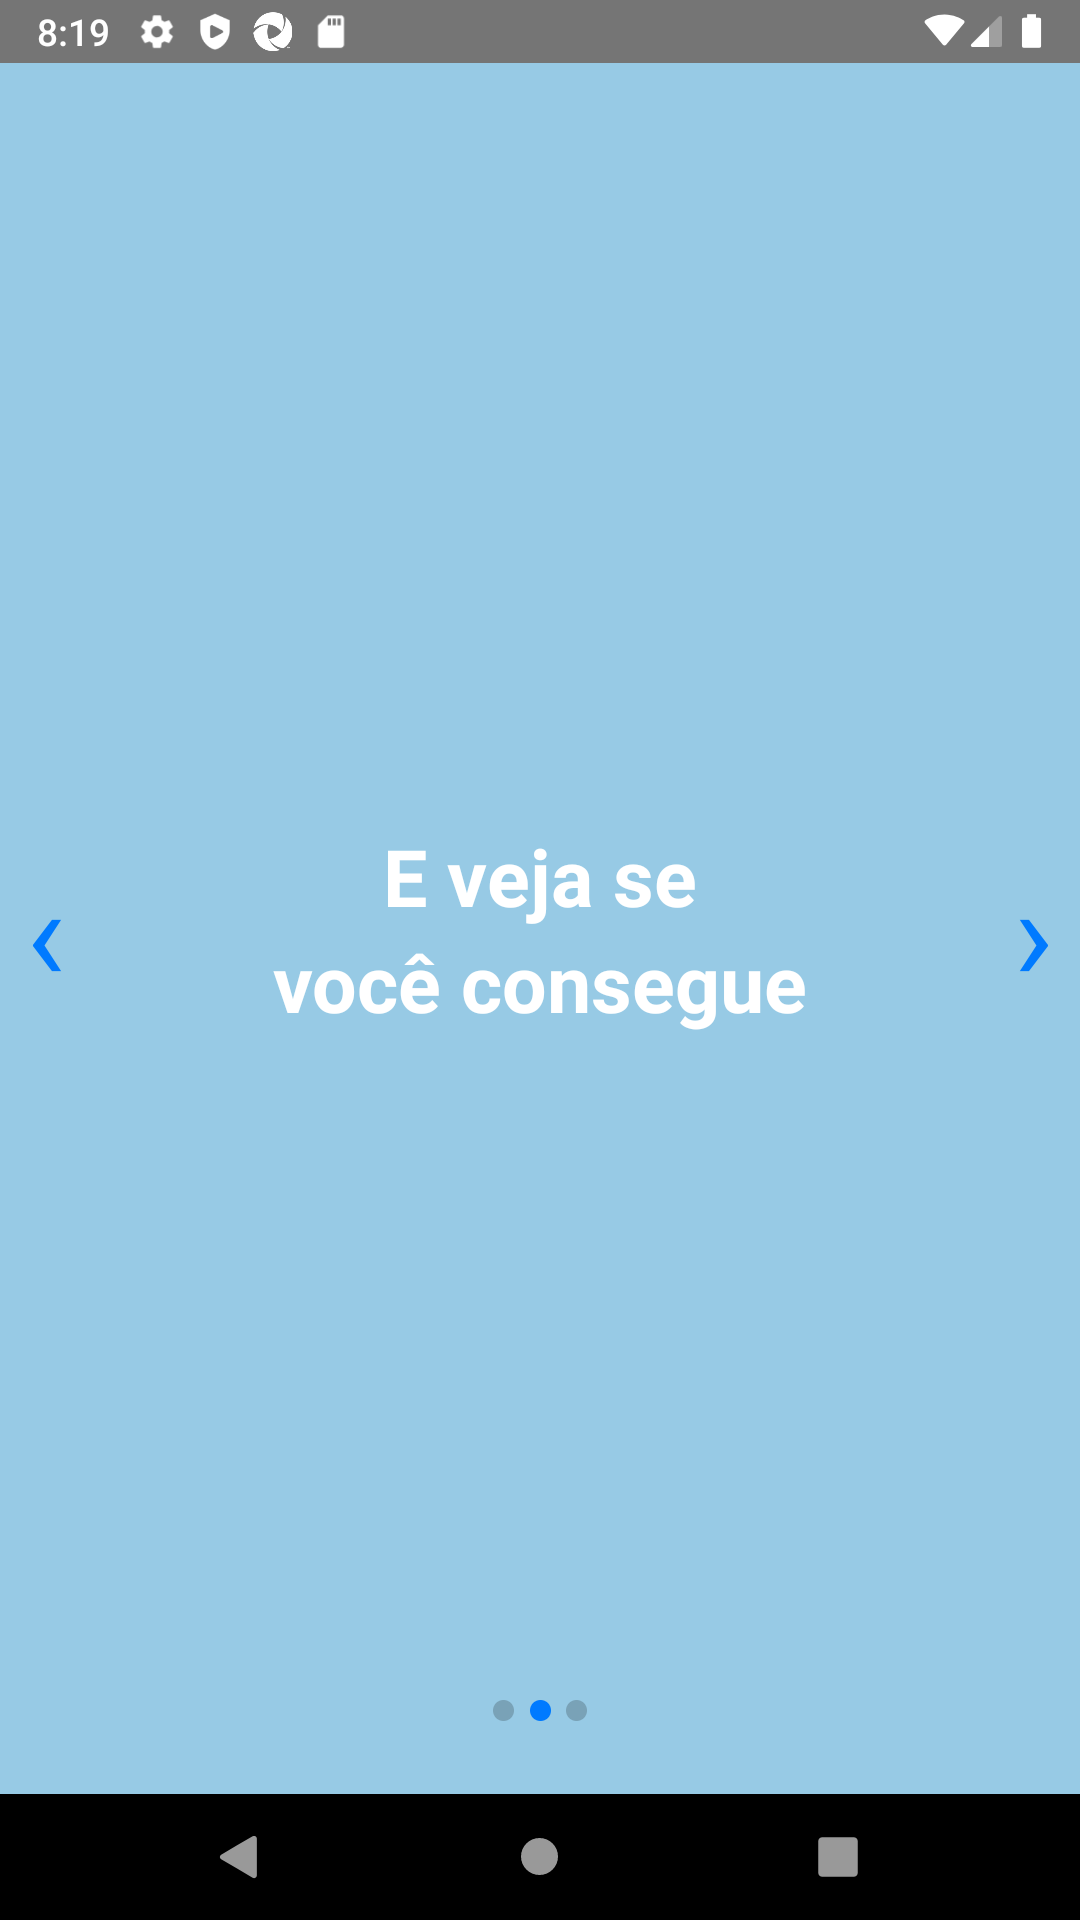
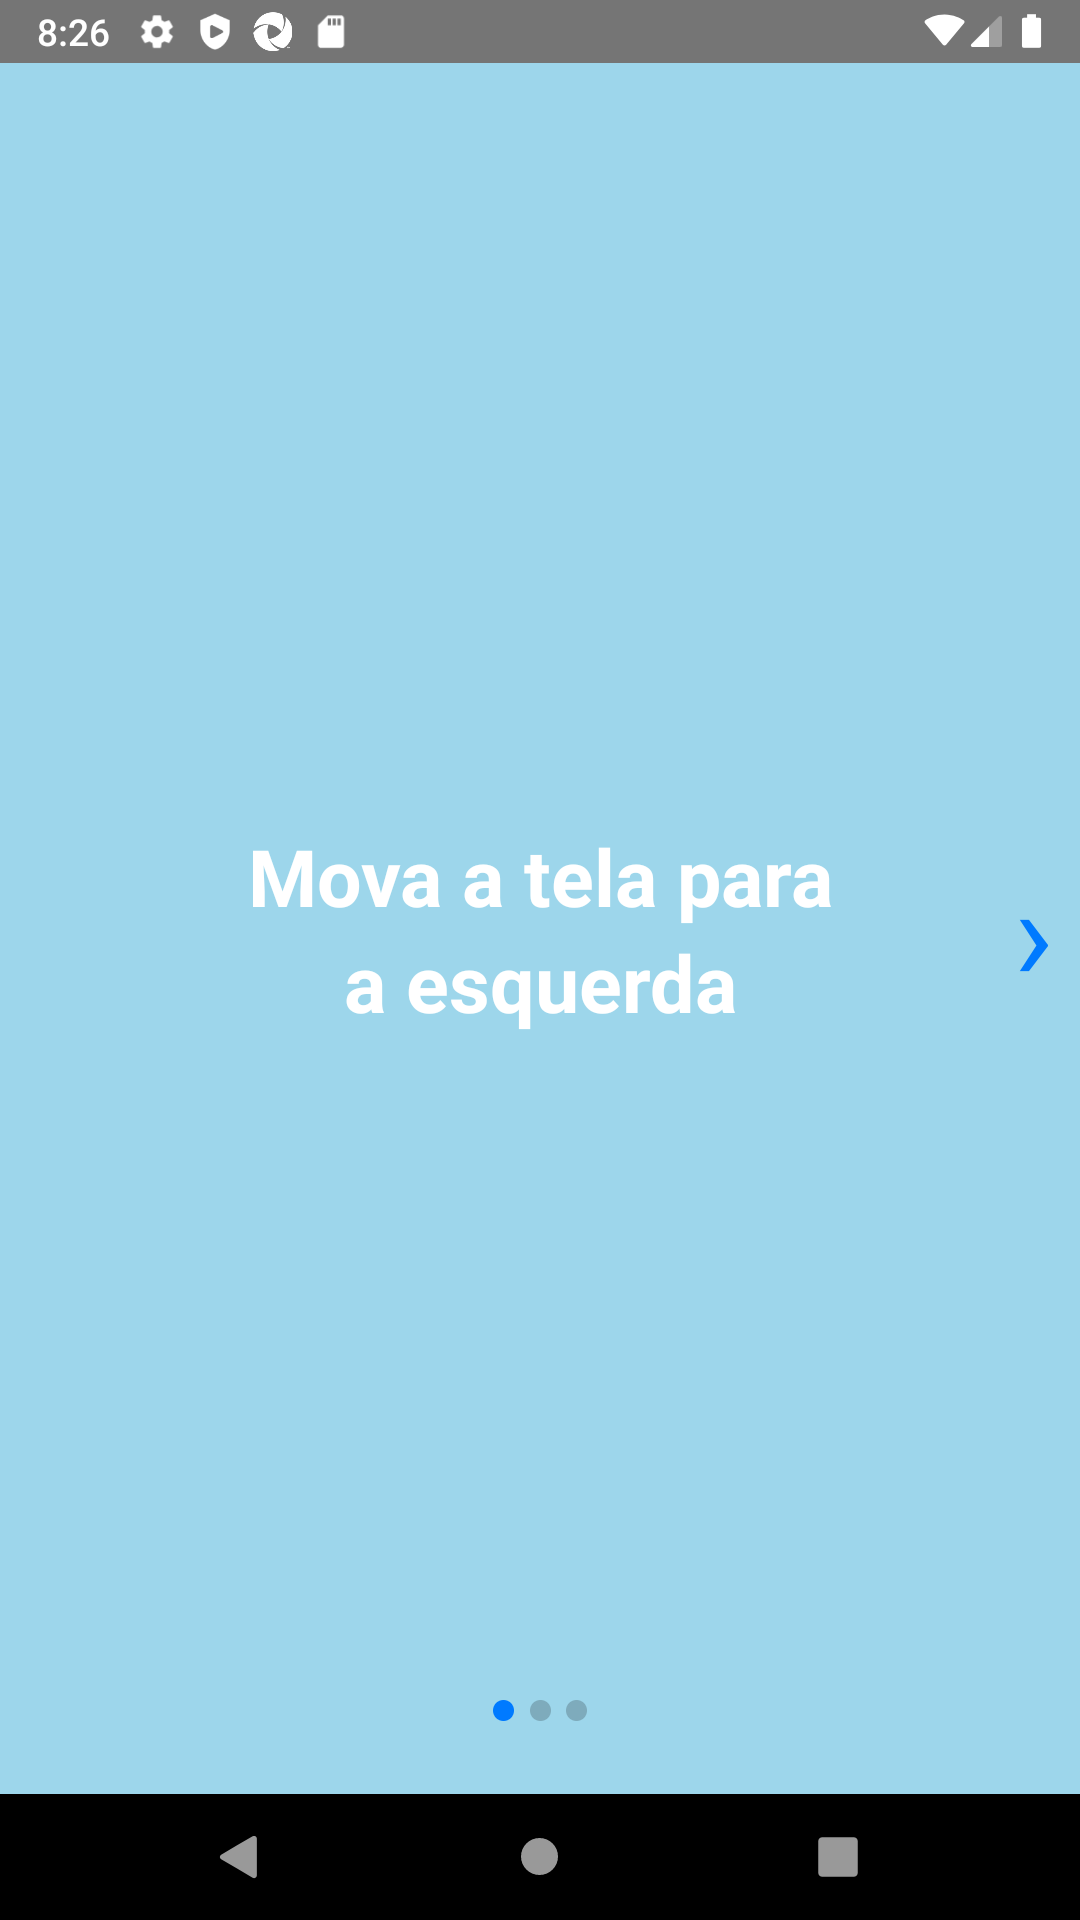
adicionando teste swipe

diff --git a/src/test/java/br/com/cursoudemy/appium/test/SwipeTest.java b/src/test/java/br/com/cursoudemy/appium/test/SwipeTest.java
@@ -26,5 +26,10 @@ public class SwipeTest extends BaseTest {
     public void chegaaoFimEVolta() {
         this.swipePage.swipeDireita();
         Assert.assertTrue(this.swipePage.isPresent("você"));
+        this.swipePage.clicarDiretita();
+        Assert.assertTrue(this.swipePage.isPresent("fim"));
+        this.swipePage.swipeEsquerda();
+        this.swipePage.clicarEsquerda();
+        Assert.assertTrue(this.swipePage.isPresent("mova"));
     }
 }
